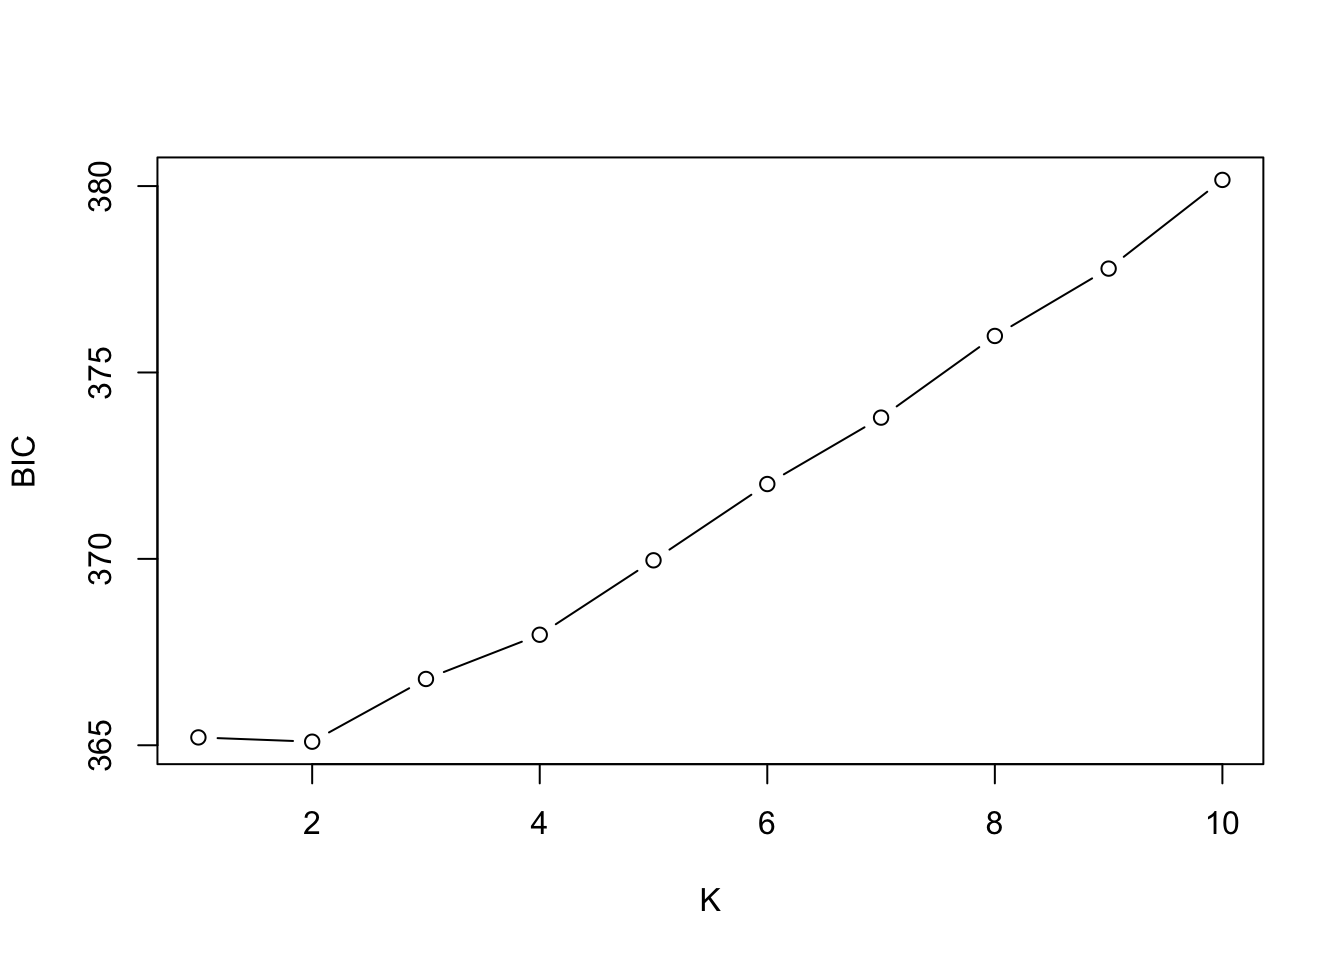
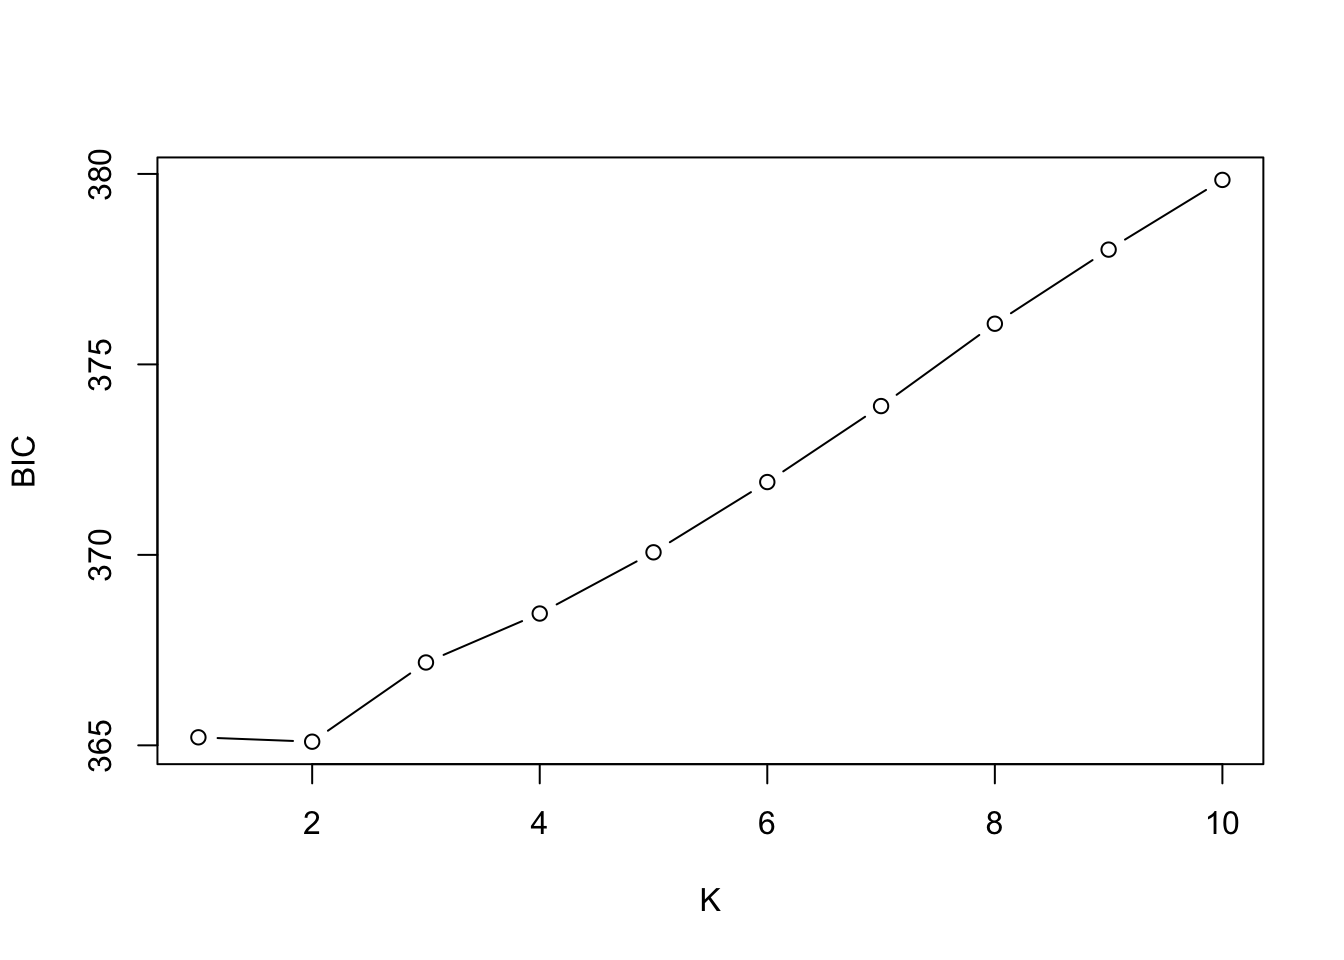
fix hw typo

diff --git a/docs/structure.html b/docs/structure.html
@@ -560,9 +560,9 @@ $eig (eigenvalues): 2986  vector    length content
 <span id="cb29-11"><a href="#cb29-11" aria-hidden="true" tabindex="-1"></a>grp_auto<span class="sc">$</span>Kstat</span></code></pre></div><button title="Copy to Clipboard" class="code-copy-button"><i class="bi"></i></button></div>
 <div class="cell-output cell-output-stdout">
 <pre><code>     K=1      K=2      K=3      K=4      K=5      K=6      K=7      K=8 
-365.2108 365.0958 366.7781 367.9647 369.9612 372.0076 373.7892 375.9796 
+365.2108 365.0958 367.1752 368.4601 370.0670 371.9115 373.9060 376.0675 
      K=9     K=10 
-377.7863 380.1655 </code></pre>
+378.0131 379.8428 </code></pre>
 </div>
 <div class="code-copy-outer-scaffold"><div class="sourceCode cell-code" id="cb31"><pre class="sourceCode r code-with-copy"><code class="sourceCode r"><span id="cb31-1"><a href="#cb31-1" aria-hidden="true" tabindex="-1"></a><span class="co"># plot!</span></span>
 <span id="cb31-2"><a href="#cb31-2" aria-hidden="true" tabindex="-1"></a><span class="fu">plot</span>(</span>

diff --git a/docs/index.html b/docs/index.html
@@ -316,7 +316,7 @@ ul.task-list li input[type="checkbox"] {
 <td>4/20 - 4/24</td>
 <td>Detecting Natural Selection</td>
 <td><ul>
-<li><a href="./scans.html"><strong>Genome Scans with <code>pcadapt</code> (HW11)</strong></a></li>
+<li><a href="./scans.html"><strong>Genome Scans with <code>pcadapt</code> (HW12)</strong></a></li>
 <li><a href="https://doi.org/10.1038/s41467-025-62811-w">Meek et al.&nbsp;2025</a> <a href="papers/meek_et_al_2025.pdf">(<strong>pdf</strong>)</a></li>
 </ul></td>
 </tr>

diff --git a/docs/scans.html b/docs/scans.html
@@ -210,7 +210,7 @@ window.Quarto = {
 Summary:
 
     - input file:               data/salvelinus.vcf
-    - output file:              /var/folders/1j/bh_1nty95dg1md7_3hxwkkww65f186/T//RtmpJ5lcZI/file806239f34e05.pcadapt
+    - output file:              /var/folders/1j/bh_1nty95dg1md7_3hxwkkww65f186/T//Rtmp4vghRA/file813352ddba9f.pcadapt
 
     - number of individuals detected:   267
     - number of loci detected:      24337
